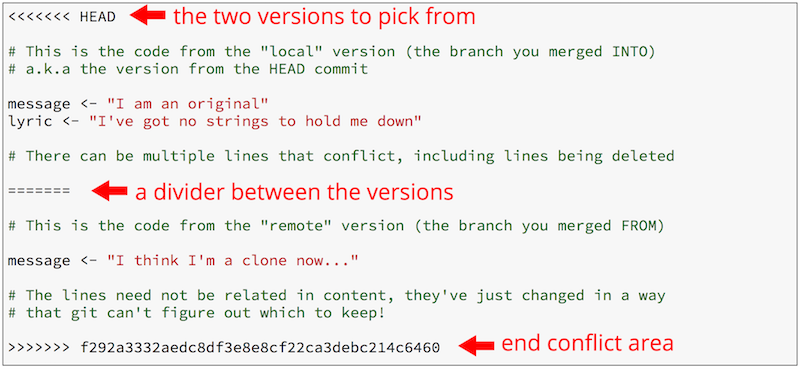
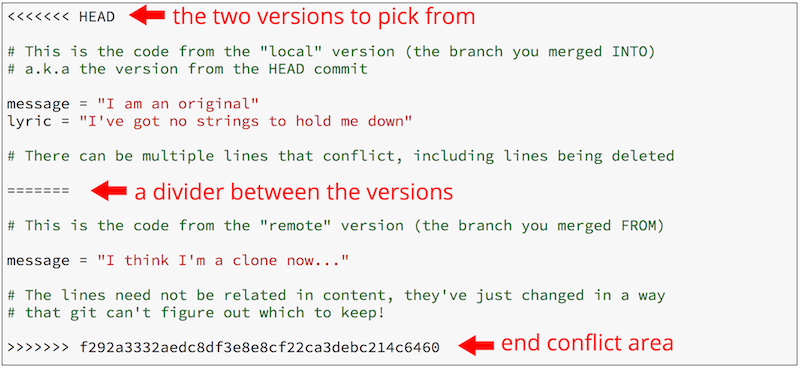
Update for S17

diff --git a/README.md b/README.md
@@ -62,7 +62,7 @@ git branch [branch_name]
 
 Will create a new branch called `branch_name` (replace this, including the brackets, with whatever name you want). Note that if you run `git branch` again you'll see that this _hasn't actually changed what branch you're on_. In fact, all you've done is created a new _reference_ (like a new variable!) that refers to the current commit as the given branch name.
 
-- You can almost think of this like creating a new variable called `branch_name` and assigning the latest commit to that! Almost like you wrote `new_branch <- my_last_commit`.
+- You can think of this like creating a new variable called `branch_name` and assigning the latest commit to that! Almost like you wrote `new_branch = my_last_commit`.
 
 - If you're familiar with [LinkedLists](https://en.wikipedia.org/wiki/Linked_list), it's a similar idea to changing a pointer in those.
 
@@ -74,7 +74,7 @@ git checkout [branch_name]
 
 **Checking out** a branch doesn't actually create a new commit! All it does is change the `HEAD` (the "commit I'm currently looking at") so that it now refers to the latest commit of the target branch. You can confirm that the branch has changed with `git branch`.
 
-- You can almost think of this like assigning a new value (the latest commit of the target branch) to the `HEAD` variable. Almost like you write `HEAD <- branch_name_last_commit`.
+- You can think of this like assigning a new value (the latest commit of the target branch) to the `HEAD` variable. Almost like you write `HEAD = branch_name_last_commit`.
 
 - Note that you can create _and_ checkout a branch in a single step using the `-b` option of git checkout:
 
@@ -82,7 +82,7 @@ git checkout [branch_name]
     git checkout -b [branch_name]
     ```
 
-Once you've checked out a particular branch, any _new_ commits from this point on will be "attached" to the "HEAD" of that branch, while the "HEAD" of other branches (e.g., `master`) will stay the same. If you use `git checkout` again, you can switch back to the other branch.
+Once you've checked out a particular branch, any _new_ commits from that point on will be "attached" to the "HEAD" of that branch, while the "HEAD" of other branches (e.g., `master`) will stay the same. If you use `git checkout` again, you can switch back to the other branch.
 
 - **Important** checking out a branch will "reset" your code to whatever it looked like when you made that commit. Switch back and forth between branches and watch your code change!
 
@@ -102,11 +102,11 @@ git merge [other_branch] --no-edit
 
 This command will merge `other_branch` **into the current branch**. So if you want to end up with the "combined" version of your commits on a particular branch, you'll need to switch to (`checkout`) that branch before you run the merge.
 
-- When merging, git may create a _new_ commit "combined" commit indicating that the branches have now been merged. The `--no-edit` option will tell git to use the default commit message when creating the new "combined" commit. If you forget this, you'll be thrown into the command-line editor. Remember, type `:q!` to escape from _vi_; if you do so, check the `status` of the repo to make sure the merge finished!
+- When merging, git may create a _new_ "combined" commit indicating that the branches have now been merged. The `--no-edit` option will tell git to use the default commit message when creating the new "combined" commit. If you forget this, you'll be thrown into the command-line editor. Remember, type `:q!` to escape from _vi_; if you do so, check the `status` of the repo to make sure the merge finished!
 
     - **IMPORTANT** If something goes wrong, don't panic and try to close your command-line! Come back to the module and look up how to fix the problem you've encounter (e.g., how to exit  _vi_. And if you're unsure why something isn't working with git, use **`git status`** to check the current status and for what steps to do next.
 
-- Note that the `rebase` command will perform a similar operation, but without creating a new "merge" commit--it simply takes the commits from one branch and attaches them to the end of the other. This effectively **changes history**, since it is no longer clear where the branching occurred. From an archival and academic view, we never want to "destroy history" and lose a record of changes that were made. History is important: don't screw with it! Thus I recommend you _avoid_ rebasing and stick with merging.
+- Note that the `rebase` command will perform a similar operation, but without creating a new "merge" commit&mdash;it simply takes the commits from one branch and attaches them to the end of the other. This effectively **changes history**, since it is no longer clear where the branching occurred. From an archival and academic view, we never want to "destroy history" and lose a record of changes that were made. History is important: don't screw with it! Thus I recommend you _avoid_ rebasing and stick with merging.
 
 To practice creating and merging branches, see [exercise-1](exercise-1).
 
@@ -114,7 +114,7 @@ To practice creating and merging branches, see [exercise-1](exercise-1).
 ### Merge Conflicts
 Merging is a regular occurrence when working with branches. But consider the following situation:
 
-1. You're on the master branch.
+1. You're on the `master` branch.
 2. You create and `checkout` a new branch called `danger`
 3. On the `danger` branch, you change line 12 of the code to be "I like kitties". You then commit this change (with message "Change line 12 of danger").
 4. You `checkout` (switch to) the `master` branch again.
@@ -123,7 +123,7 @@ Merging is a regular occurrence when working with branches. But consider the fol
 
 In this situation, you are trying to _merge two different changes to the same line of code_, and thus should be shown an error on the command-line:
 
-![Merge conflict error](img/merge-conflict-error.png)
+![Merge conflict error](img/merge-conflict-error-py.png)
 
 This is called a **merge conflict**. A merge conflict occurs when two commits from different branches include different changes to the same code (they conflict). Git is just a simple computer program, and has no way of knowing which version to keep ("are kitties better than puppies? How should I know?!").
 
@@ -137,9 +137,9 @@ In order to resolve the conflict:
 
 1. Use `git status` to see which files have merge conflicts. Note that files may have more than one conflict!
 
-2. Choose which version of the code to keep (or keep a combination, or replace it with something new entirely!) You do this by **editing the file** (i.e., open it in R Studio and change it). Pretend that your cat walked across your keyboard and added a bunch of extra junk; it is now your task to fix your work and restore it to a clean, working state. ___Be sure and test your changes to make sure things work!___
+2. Choose which version of the code to keep (or keep a combination, or replace it with something new entirely!) You do this by **editing the file** (i.e., open it in Visual Studio Code and change it). Pretend that your cat walked across your keyboard and added a bunch of extra junk; it is now your task to fix your work and restore it to a clean, working state. ___Be sure and test your changes to make sure things work!___
 
-3. Be sure and remove the `<<<<<<<` and `=======` and `>>>>>>>` These are not legal code in any language.
+3. Be sure and remove the `<<<<<<<` and `=======` and `>>>>>>>`. These are not legal code in any language.
 
 4. Once you're satisfied that the conflicts are all resolved and everything works as it should, follow the instructions in the error message and `add` and `commit` your changes (the code you "modified" to resolve the conflict):
 
@@ -185,7 +185,7 @@ git checkout -b [branch_name] [commit_number]
 
 This command treats the commit as if it was the HEAD of a named branch... where the name of that branch is the commit number. You can then make further changes and merge it back into your development or `master` branch.
 
-- **IMPORTANT NOTE**: If you don't create a _new branch_ (with **`-b`**) when checking out an old commit, you'll enter **detached HEAD state**. You can't commit from here, because there is no branch for that commit to be attached to! See [this tutorial (scroll down)](https://www.atlassian.com/git/tutorials/using-branches/git-checkout) for details & diagrams. If you find yourself in a detached HEAD state, you can use `git checkout master` to get back to the last saved commit (though you will lose any changes you made in that detached state&mdash;so just avoid it in the first place!)
+- **IMPORTANT NOTE**: If you don't create a _new branch_ (with **`-b`**) when checking out an old commit, you'll enter **detached HEAD state**. You can't commit from here, because there is no branch for that commit to be attached to! See [this tutorial (scroll down)](https://www.atlassian.com/git/tutorials/using-branches/git-checkout) for details and diagrams. If you find yourself in a detached HEAD state, you can use `git checkout master` to get back to the last saved commit (though you will lose any changes you made in that detached state&mdash;so just avoid it in the first place!)
 
 But what if you just had one bad commit, and don't want to throw out other good changes you made later? For this, you can use the `git revert` command:
 
@@ -193,9 +193,9 @@ But what if you just had one bad commit, and don't want to throw out other good 
 git revert [commit_number] --no-edit
 ```
 
-This will determine what changes that commit made to the files, and then apply the _opposite_ changes to effectively "back out" the commit. Note that this **does not** go back _to_ the given commit number (that's what `checkout` is for!), but rather _undoes the commit you specify_.
+This will determine what changes that commit made to the files, and then apply the _opposite_ changes to effectively "back out" the commit. Note that this **does not** go back _to_ the given commit number (that's what `checkout` is for!), but rather _reverse the commit you specify_.
 
-- This command does create a new commit (the `--no-edit` option tells git that you don't want to include a custom commit message). This is great from an archival point of view: we never "destroy history" and lose the record of what changes were made. History is important: don't screw with it!
+- This command does create a new commit (the `--no-edit` option tells git that you don't want to include a custom commit message). This is great from an archival point of view: we never "destroy history" and lose the record of what changes were made and then reverted. History is important: don't screw with it!
 
     The `reset` command will destroy history. **Do not use it**, no matter what StackOverflow tells you to do.
 
@@ -215,7 +215,7 @@ Thus in practice, when working with GitHub (and especially with multiple people,
 2. _Resolve_ any merge conflicts that occurred
 3. `push` (upload) your merged set of changes
 
-Additionally, because GitHub repositories are repositories just like the ones on your local machine, they can have branches as well! (You have seen that each learning module has a `complete` branch). You have access to any _remote_ branches when you `clone` a repo; you can see a list of them with `git branch -a` (using the `all` option).
+Additionally, because GitHub repositories are repos just like the ones on your local machine, they can have branches as well! (You have seen that each learning module has a `complete` branch). You have access to any _remote_ branches when you `clone` a repo; you can see a list of them with `git branch -a` (using the `all` option).
 
 If you create a new branch on your local machine, it is possible to push _that branch_ to GitHub, creating a mirroring branch on the remote repo. You do this by specifying the branch in the `git push` command:
 
@@ -235,9 +235,9 @@ Tracking will be remembered once set up, so you only need to use the `-u` option
 
 
 ### GitHub Pages
-GitHub's use of branches provides a number of additional features, one of which is the ability  to **host** web pages (`.html` files, like what you generate from R Markdown) on a publicly accessible web server that can "serve" the page to anyone who requests it. This feature is known as [GitHub Pages](https://help.github.com/articles/what-is-github-pages/).
+GitHub's use of branches provides a number of additional features, one of which is the ability  to **host** web pages (`.html` files, which can be generated from Markdown or Jupyter notebooks) on a publicly accessible web server that can "serve" the page to anyone who requests it. This feature is known as [GitHub Pages](https://help.github.com/articles/what-is-github-pages/).
 
-With GitHub pages, GitHub will serve your files visitors as long as the files are in a branch with a magic name: **`gh-pages`**. Thus in order to **publish** your webpage and make it available online, all you need to do is create that branch, merge your content into it, and then push that branch to GitHub
+With GitHub pages, GitHub will serve your files to visitors as long as the files are in a branch with a magic name: **`gh-pages`**. Thus in order to **publish** your webpage and make it available online, all you need to do is create that branch, merge your content into it, and then push that branch to GitHub.
 
 You almost always want to create the new `gh-pages` branch off of your `master` branch. This is because you usually want to publish the "finished" version, which is traditionally represented by the `master` branch. This means you'll need to switch over to `master`, and then create a new branch from there:
 
@@ -262,15 +262,15 @@ https://GITHUB-USERNAME.github.io/REPO-NAME
 
 (Replace `GITHUB-USERNAME` with the user name **of the account hosting the repo**, and `REPO-NAME` with your repository name).
 
-- This means that if you're making your homework reports available, the `GITHUB-USERNAME` will be the name of the course organization (e.g., `info201-w17`).
+- This means that if you're making your homework reports available, the `GITHUB-USERNAME` will be the name of the course organization (e.g., `infx598i-s17`).
 
 Three important notes:
 
 1. The `gh-pages` branch must be named _exactly_ that. If you misspell the name, or use an underscore instead of a dash, it won't work.
 
-1. Only the files and commits in the `gh-pages` branch are visible on the web. All commits in other branches (`experiment`, `master`, etc.) are not visible on the web (other than as source code in the repo). This allows you to work on your site with others before publishing those changes to the web.
+2. Only the files and commits in the `gh-pages` branch are visible on the web. All commits in other branches (`experiment`, `master`, etc.) are not visible on the web (other than as source code in the repo). This allows you to work on your site with others before publishing those changes to the web.
 
-1. Any content in the `gh-pages` branch will be publicly accessible, even if your repo is private. You can remove specific files from the `gh-pages` branch that you don't want visible on the web, while still keeping them in the `master` branch: use the `git rm` to remove the file and then add, commit, and push the deletion.
+3. Any content in the `gh-pages` branch will be publicly accessible, even if your repo is private. You can remove specific files from the `gh-pages` branch that you don't want visible on the web, while still keeping them in the `master` branch: use the `git rm` to remove the file and then add, commit, and push the deletion.
 
     - Be careful not push [any passwords or anything](http://www.itnews.com.au/news/aws-urges-developers-to-scrub-github-of-secret-keys-375785) to GitHub!
 
@@ -312,9 +312,9 @@ In order to make sure everyone is able to `push` to the repository, whoever crea
 Once you've added everyone to the GitHub repository, **each team member** will need to **`clone`** the repository to their local machine to work on the code individually. Collaborators can then `push` any changes they make to the central repository, and `pull` and changes made by others.
 
 ### Feature Branches
-The core idea behind the [**feature branch workflow**](https://www.atlassian.com/git/tutorials/comparing-workflows#feature-branch-workflow) is that all development should take place on a dedicated **feature branch**, rather than on the `master` branch. This allows for different people to work on different branches without disturbing the main codebase. For example, you might have one branch `visualization` that focuses on adding a complex visualization, or another `experimental-analysis` that tries a bold new approach to wrangling the data. Each branch is based on a _feature_ (capability or part) of the project, not a particular person: a person could be working on multiple feature branches.
+The core idea behind the [**feature branch workflow**](https://www.atlassian.com/git/tutorials/comparing-workflows#feature-branch-workflow) is that all development should take place on a dedicated **feature branch**, rather than on the `master` branch. This allows for different people to work on different branches without disturbing the main codebase. For example, you might have one branch `visualization` that focuses on adding a complex visualization, or another `experimental-analysis` that tries a bold new approach to processing the data. Each branch is based on a _feature_ (capability or part) of the project, not a particular person: a person could be working on multiple feature branches.
 
-The idea is that the `master` branch _always_ contains production-level code: valid, completely working code that you could deploy or publish (read: give to your boss or teacher) at a whim. Each feature branch branches off of `master`, and are allowed to contain temporary or broken code (since they are still in development). There way there is always a "working" (if incomplete) copy of the code (`master`), and development can be kept isolated and considered independent of the whole. This is similar to the example with the `experiment` branch above.
+The idea is that the `master` branch _always_ contains "production-level" code: valid, completely working code that you could deploy or publish (read: give to your boss or teacher) at a whim. All feature branches branch off of `master`, and are allowed to contain temporary or broken code (since they are still in development). This way there is always a "working" (if incomplete) copy of the code (`master`), and development can be kept isolated and considered independent of the whole. This is similar to the example with the `experiment` branch above.
 
 The workflow thus works like this:
 
@@ -350,7 +350,7 @@ The workflow thus works like this:
     # work is done outside of terminal
 
     git add .
-    git commit -m "Adds progress on feature"
+    git commit -m "Adds more progress on feature"
     git push origin adas-feature
     ```
 
